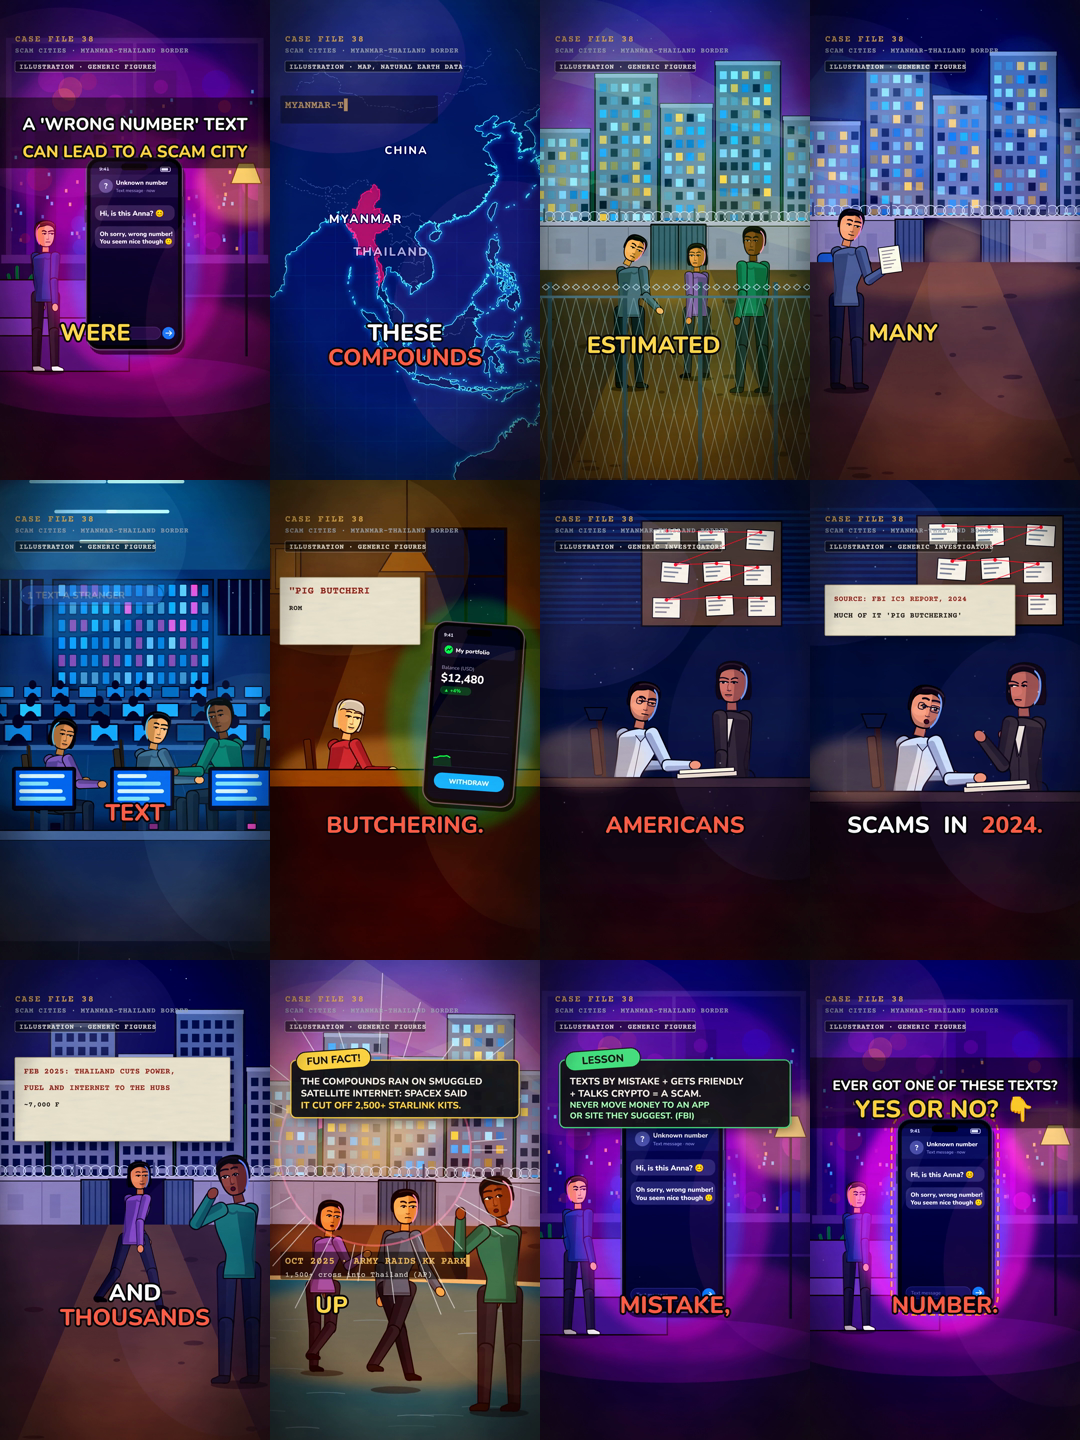
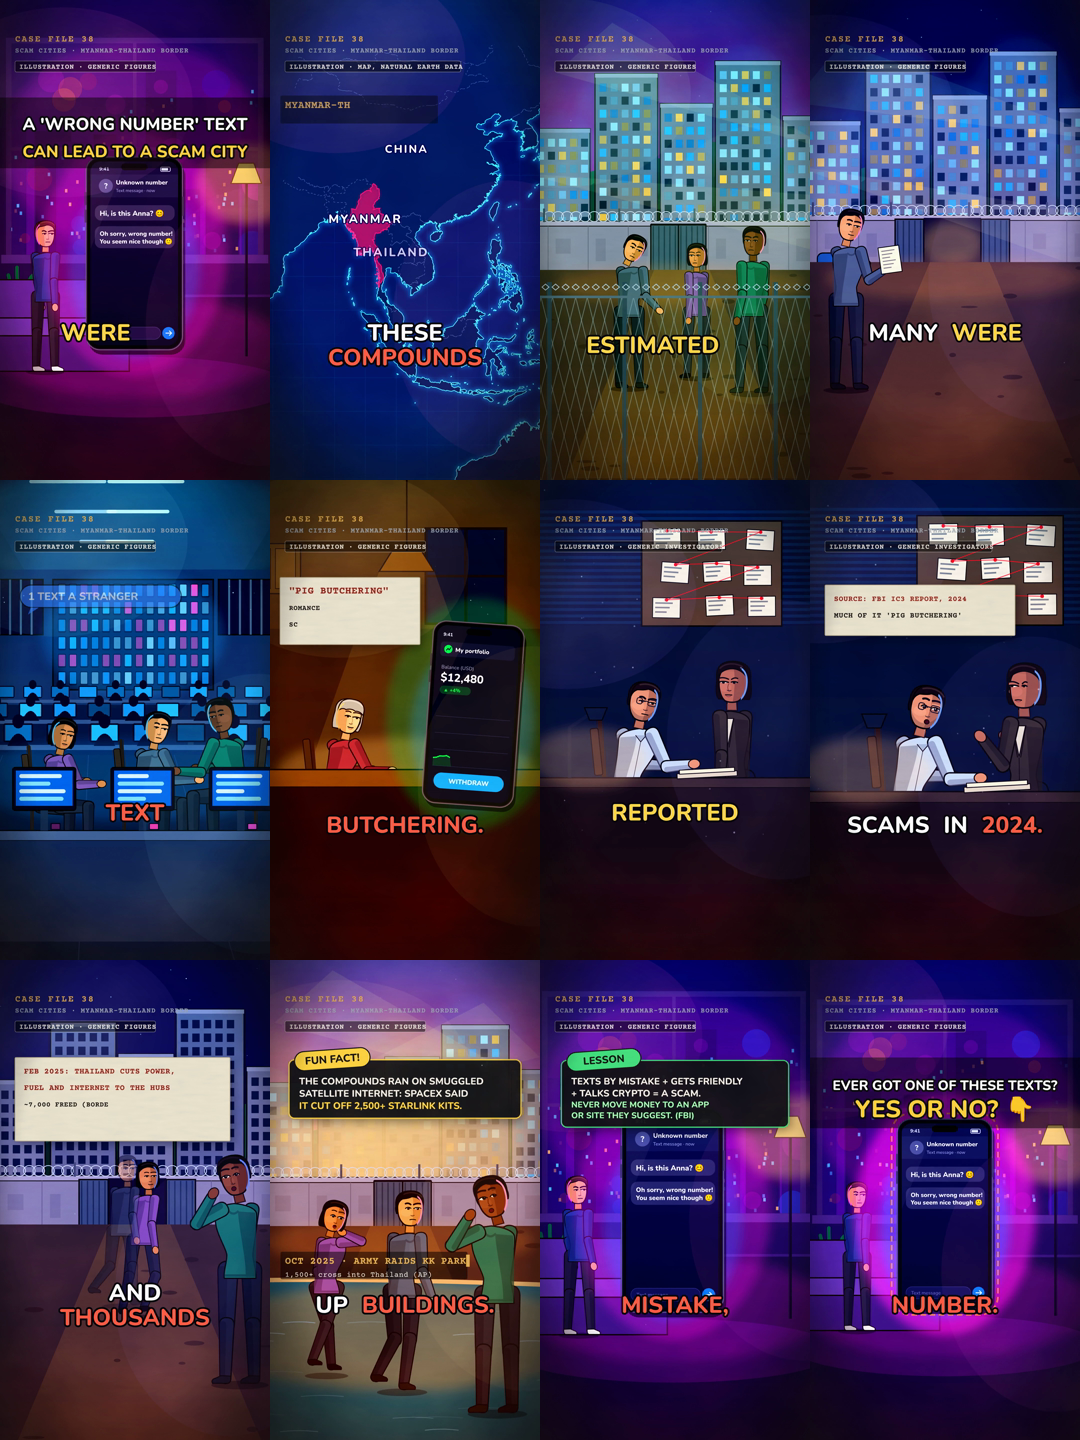
WIP: render logs and interim records
Claude-Session: https://claude.ai/code/session_0181YiZCGX4kUBAdb7SwkZ2H

diff --git a/series/true-crime-cinematic/production_log.md b/series/true-crime-cinematic/production_log.md
@@ -230,3 +230,5 @@
 - 2026-10-14 04:05:37 tcv36-yen-heist: VERIFIED -> series/true-crime-cinematic/output/true_crime_36_yen_heist.mp4 (52.0s, 45.1 MB, sha256 409f7a024e5c)
 - 2026-10-14 04:05:37 produce 38 --force: regenerating episode data
 - 2026-10-14 04:05:37 tcv38-scam-city: rendering (final60, seed 1)
+- 2026-10-14 04:36:30 tcv38-scam-city: rendered in 1853s
+- 2026-10-14 04:37:37 tcv38-scam-city: VERIFIED -> series/true-crime-cinematic/output/true_crime_38_scam_city.mp4 (52.1s, 43.9 MB, sha256 e585439fd625)

diff --git a/series/true-crime-cinematic/qa/true_crime_38/timed_script.md b/series/true-crime-cinematic/qa/true_crime_38/timed_script.md
@@ -29,6 +29,6 @@
 [ 37.88s –  43.12s] s09_raid
   NARRATOR [38.12s]: Then Myanmar's army raided KK Park and blew up buildings.
 
-[ 43.12s –  51.75s] s10_end
+[ 43.12s –  52.12s] s10_end
   NARRATOR [43.38s]: The lesson? A stranger who texts by mistake, then talks crypto, is a scam.
-  NARRATOR [48.07s]: Don't reply to that wrong number.
+  NARRATOR [48.07s]: So never reply to that wrong number.
